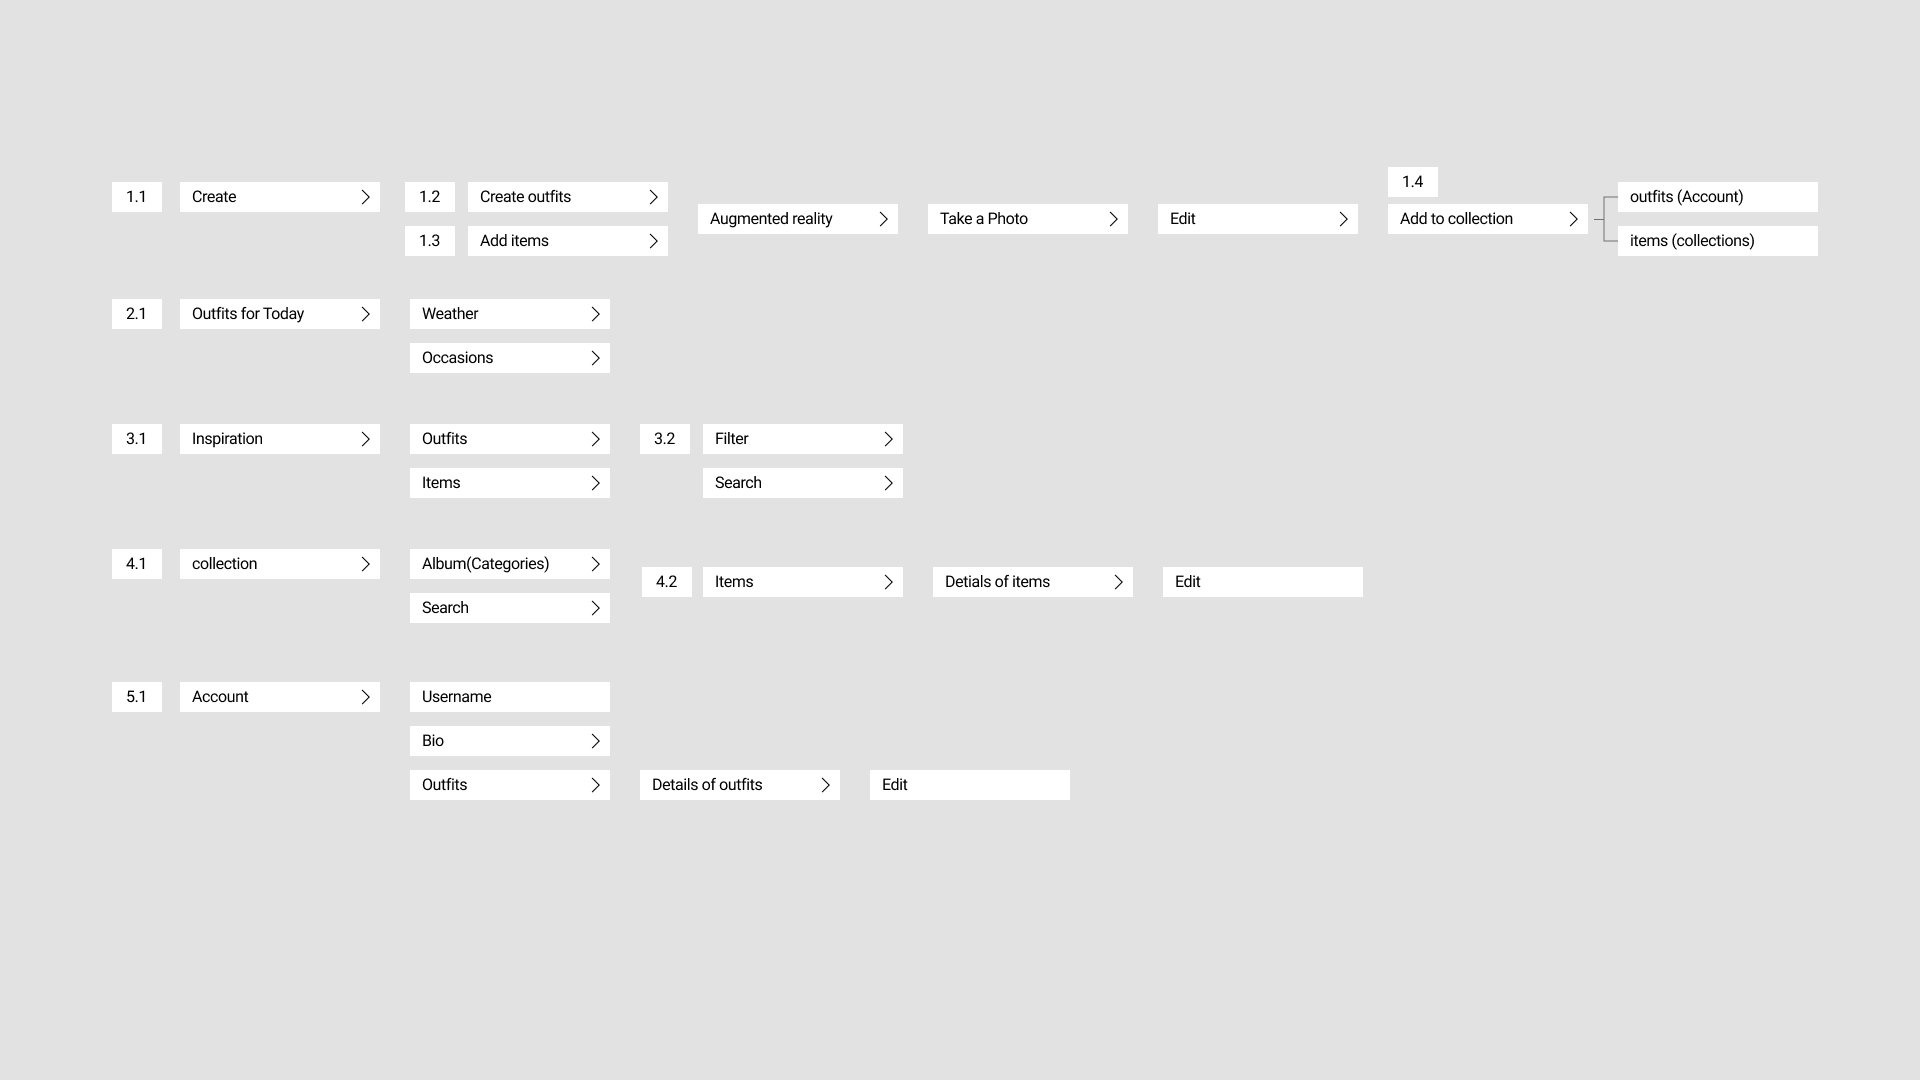
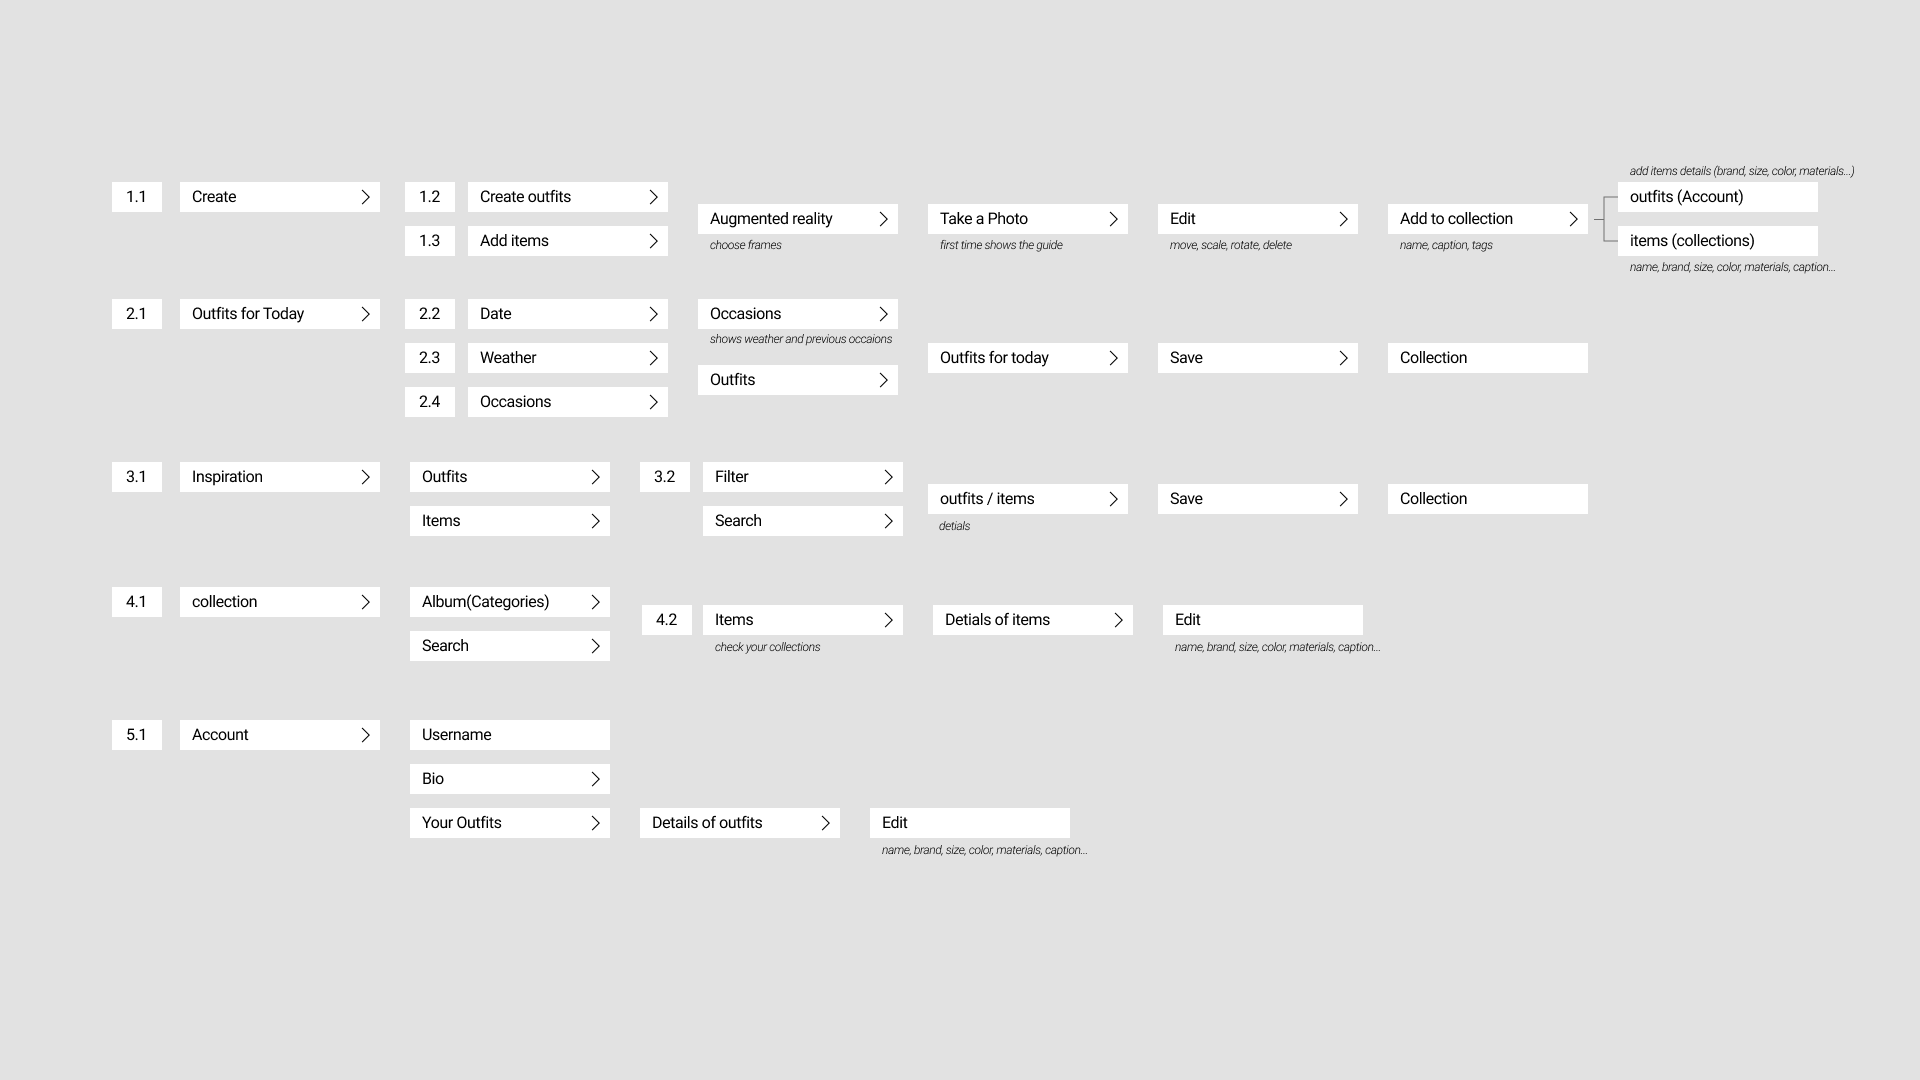
index.html

diff --git a/portfolio/outfitsyou/index.html b/portfolio/outfitsyou/index.html
@@ -287,7 +287,7 @@
                         </p>
                     </ol>
 
-                    <ol class="work_item diagram col-xs-12 col-sm-4 col-md-4 col-lg-4">
+                    <ol class="work_item storyboard col-xs-12 col-sm-4 col-md-4 col-lg-4">
                         <a href="#"></a>
                         <div class="work_item_container">
                             <div class="work_item_container_description"></div>
@@ -305,7 +305,7 @@
                             </p>    
                     </ol>
 
-                    <ol class="work_item diagram col-xs-12 col-sm-4 col-md-4 col-lg-4">
+                    <ol class="work_item storyboard col-xs-12 col-sm-4 col-md-4 col-lg-4">
                         <a href="#"></a>
                         <div class="work_item_container">
                             <div class="work_item_container_description"></div>
@@ -324,7 +324,7 @@
                             </p>                    
                     </ol>
 
-                    <ol class="work_item diagram col-xs-12 col-sm-4 col-md-4 col-lg-4">
+                    <ol class="work_item storyboard col-xs-12 col-sm-4 col-md-4 col-lg-4">
                         <a href="#"></a>
                         <div class="work_item_container">
                             <div class="work_item_container_description"></div>
@@ -394,13 +394,13 @@
             <li class = "work_word col-xs-12 col-sm-12 col-md-4 col-lg-4">
                 <div class="resume_item_container">
                     <ol class="ux_word col-xs-12 col-sm-12 col-md-12 col-lg-12">
-                        <h3>
+                        <h3>                    
                         </h3>
                     </ol>
                     
                     <ol class="ux_word col-xs-12 col-sm-12 col-md-12 col-lg-12">
                         <i>
-                            “Focused on what you loves and explore the life like doing experiment. Then We will find out what is suitable.” 
+                            Millie is an enthusiasm scientific researcher who needs to try on different styles of outfits when she see some fashion items because she can find out what kinds of items suit to her.
                         </i>
                     </ol>
                 </div>
@@ -417,7 +417,6 @@
                     </div>
             </li>
 
-
             <!--TEXT HERE-->
             <li class = "work_word col-xs-12 col-sm-12 col-md-4 col-lg-4">
                 <div class="resume_item_container">
@@ -428,7 +427,7 @@
                     
                     <ol class="ux_word col-xs-12 col-sm-12 col-md-12 col-lg-12">
                         <i>
-                            “There is a lot of struggle in the life, but I am not afraid to find the way out. Live and Learn.”  
+                            Chris is a stylish and fashionable retired professor who needs to know what is trendy outfits now because he can try something new and share his outfits on social medias.
                         </i>
                     </ol>
                 </div>
@@ -447,7 +446,6 @@
 
 
 
-
             <!--TEXT HERE-->
             <li class="work_word col-xs-12 col-sm-12 col-md-12 col-lg-12">
                 <h2>
@@ -457,6 +455,8 @@
             <li class="ux_caption col-xs-12 col-sm-12 col-md-12 col-lg-12">
                 <p>
                     1.User is thinking what should I wear and go hiking on the sunny day?  2.Searching online for inspiration and thinking what clothes I have.  3.Open the OUTFTIS YOU application and select the date and activities(occasions).  4.It recommend the outfits for user.  
+                    <br>
+                    <br>
                     5.User uses the creating mode to take a photo.  6.User makes his own outfits on the interface.  7.After editing and making outfits, user find a good idea.  8.User enjoy the outfits and go hiking on the sunny day.
                 </p>
             </li>
@@ -471,7 +471,6 @@
                         </div>
                     </div>
             </li>    
-
 
 
 
@@ -494,13 +493,10 @@
             </li>
 
 
-
-
-
             <!--TEXT HERE-->
             <li class = "work_word col-xs-12 col-sm-12 col-md-12 col-lg-12">
                 <h2>
-                    Wireframes
+                    Paper Wireframes
                 </h2>
             </li>
             
@@ -508,9 +504,27 @@
             <li class="work_item diagram col-xs-12 col-sm-12 col-md-12 col-lg-12">
                 <a href="#"></a>
                     <div class="work_item_container">
-                        <div class="work_item_container_description">Wireframes</div>
+                        <div class="work_item_container_description">Paper Wireframes</div>
                         <div class="work_item_container_content">
                             <img src="wireframe.jpg" alt="wireframes">
+                        </div>
+                    </div>
+            </li>
+
+
+            <li class = "work_word col-xs-12 col-sm-12 col-md-12 col-lg-12">
+                <h2>
+                    Low Fidelity Prototype
+                </h2>
+            </li>
+            
+            <!--DIAGRAM HERE-->
+            <li class="work_item diagram col-xs-12 col-sm-12 col-md-12 col-lg-12">
+                <a href="#"></a>
+                    <div class="work_item_container">
+                        <div class="work_item_container_description">Low Fidelity Prototype</div>
+                        <div class="work_item_container_content">
+                            <img src="low-fidelity prototype.jpg" alt="low-fidelity prototype">
                         </div>
                     </div>
             </li>
@@ -598,24 +612,7 @@
                 <h2>
                     Prototype
                 </h2>
-            </li>
-
-            <li class = "work_word col-xs-12 col-sm-12 col-md-12 col-lg-12">
-                <h3>
-                    Low Fidelity Prototype
-                </h3>
-            </li>
-            
-            <!--DIAGRAM HERE-->
-            <li class="work_item diagram col-xs-12 col-sm-12 col-md-12 col-lg-12">
-                <a href="#"></a>
-                    <div class="work_item_container">
-                        <div class="work_item_container_description">Low Fidelity Prototype</div>
-                        <div class="work_item_container_content">
-                            <img src="low-fidelity prototype.jpg" alt="low-fidelity prototype">
-                        </div>
-                    </div>
-            </li>
+            </li>  
             
             <li class = "work_word col-xs-12 col-sm-12 col-md-12 col-lg-12">
                 <h3>
@@ -636,11 +633,17 @@
 
             
             <li class = "work_word col-xs-12 col-sm-12 col-md-12 col-lg-12">
-                <h3>
+                <h2>
                     Main Features
-                </h3>
+                </h2>
             </li>
 
+            
+            <li class = "work_word col-xs-12 col-sm-12 col-md-12 col-lg-12">
+                <p>
+                    In the creating outfits mode, the frames help users to take photo for items in scale. Add the outfits into the collection and fill details for each items. 
+                </p>
+            </li>
             
             <!--DIAGRAM HERE-->
             <li class="work_item diagram col-xs-12 col-sm-12 col-md-12 col-lg-12">
@@ -652,7 +655,6 @@
                         </div>
                     </div>
             </li>
-
 
 
             <!--TEXT HERE-->
@@ -786,7 +788,6 @@
                         </div>
                     </div>
             </li>
-
 
 
             <!--TEXT HERE-->
